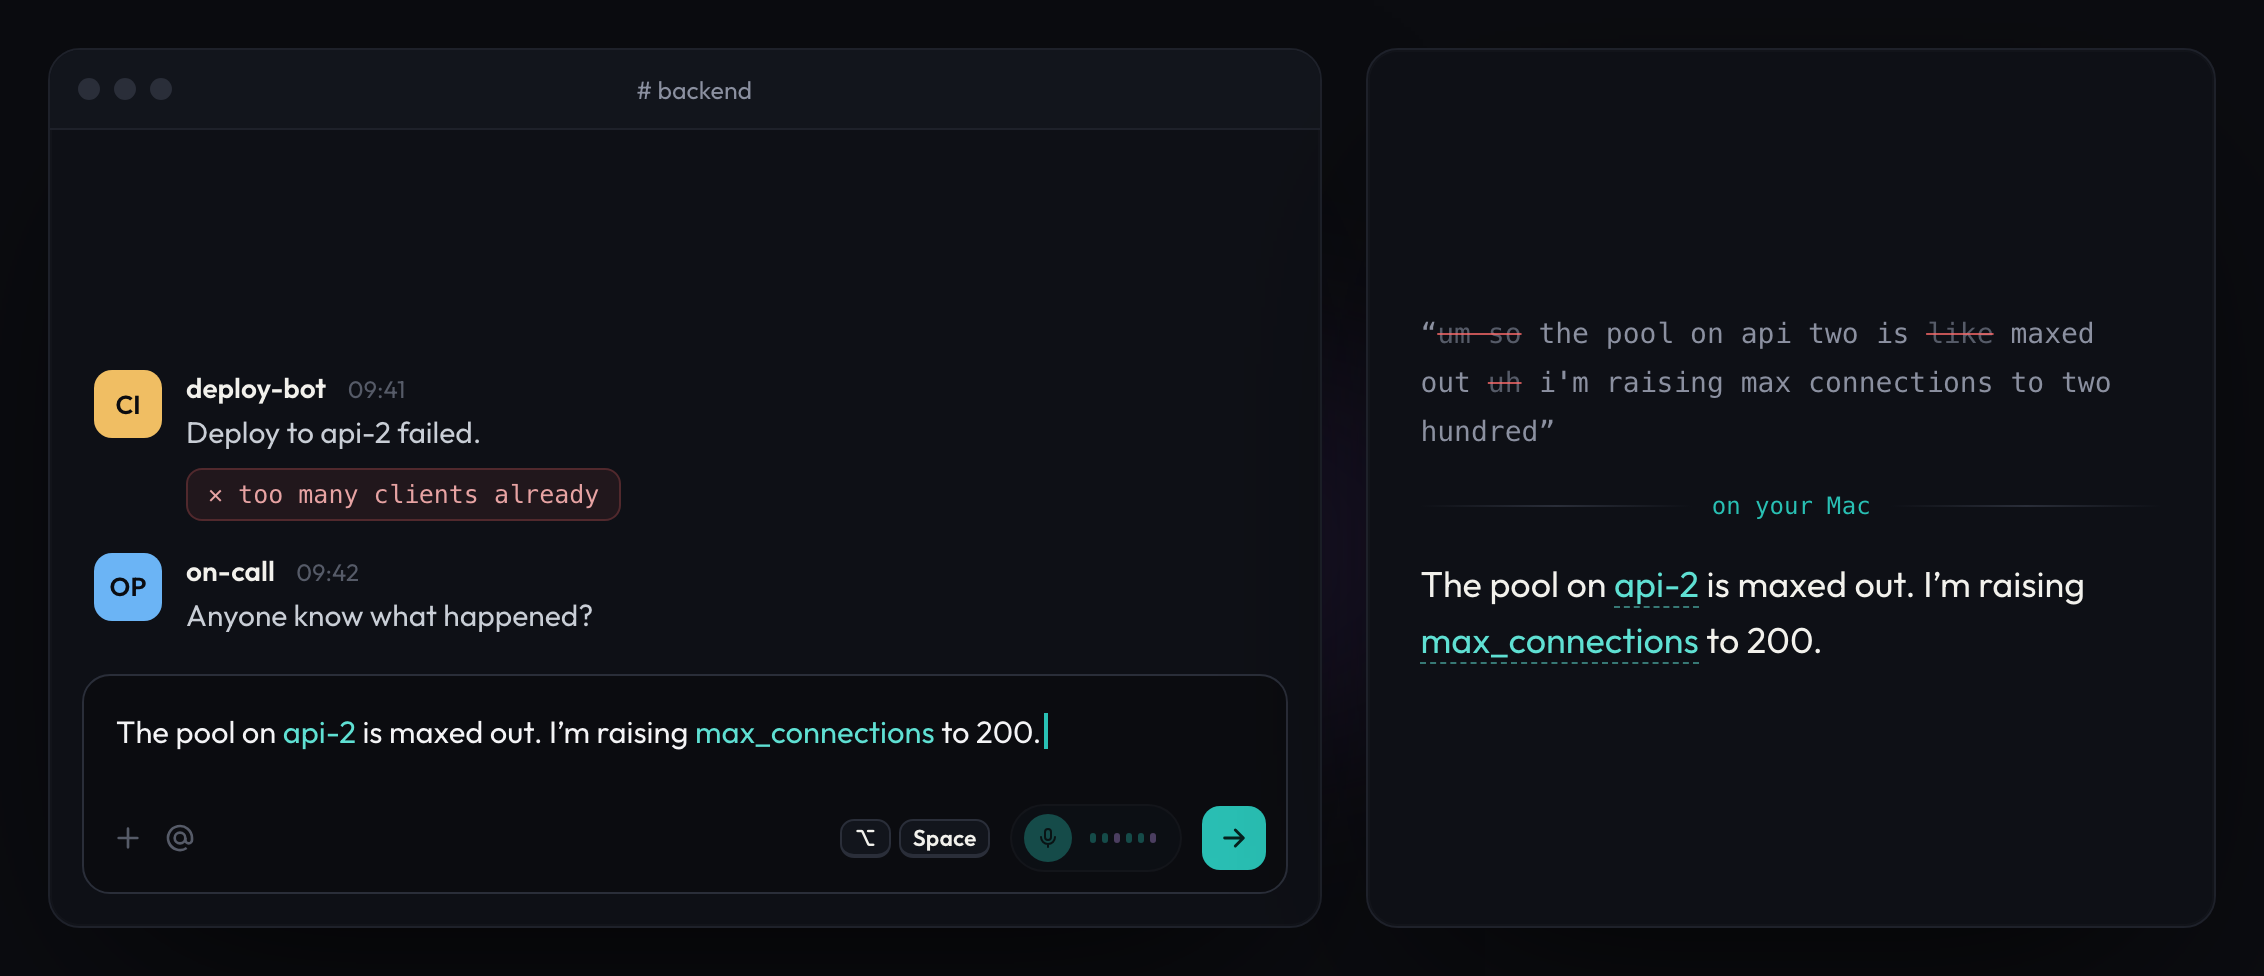
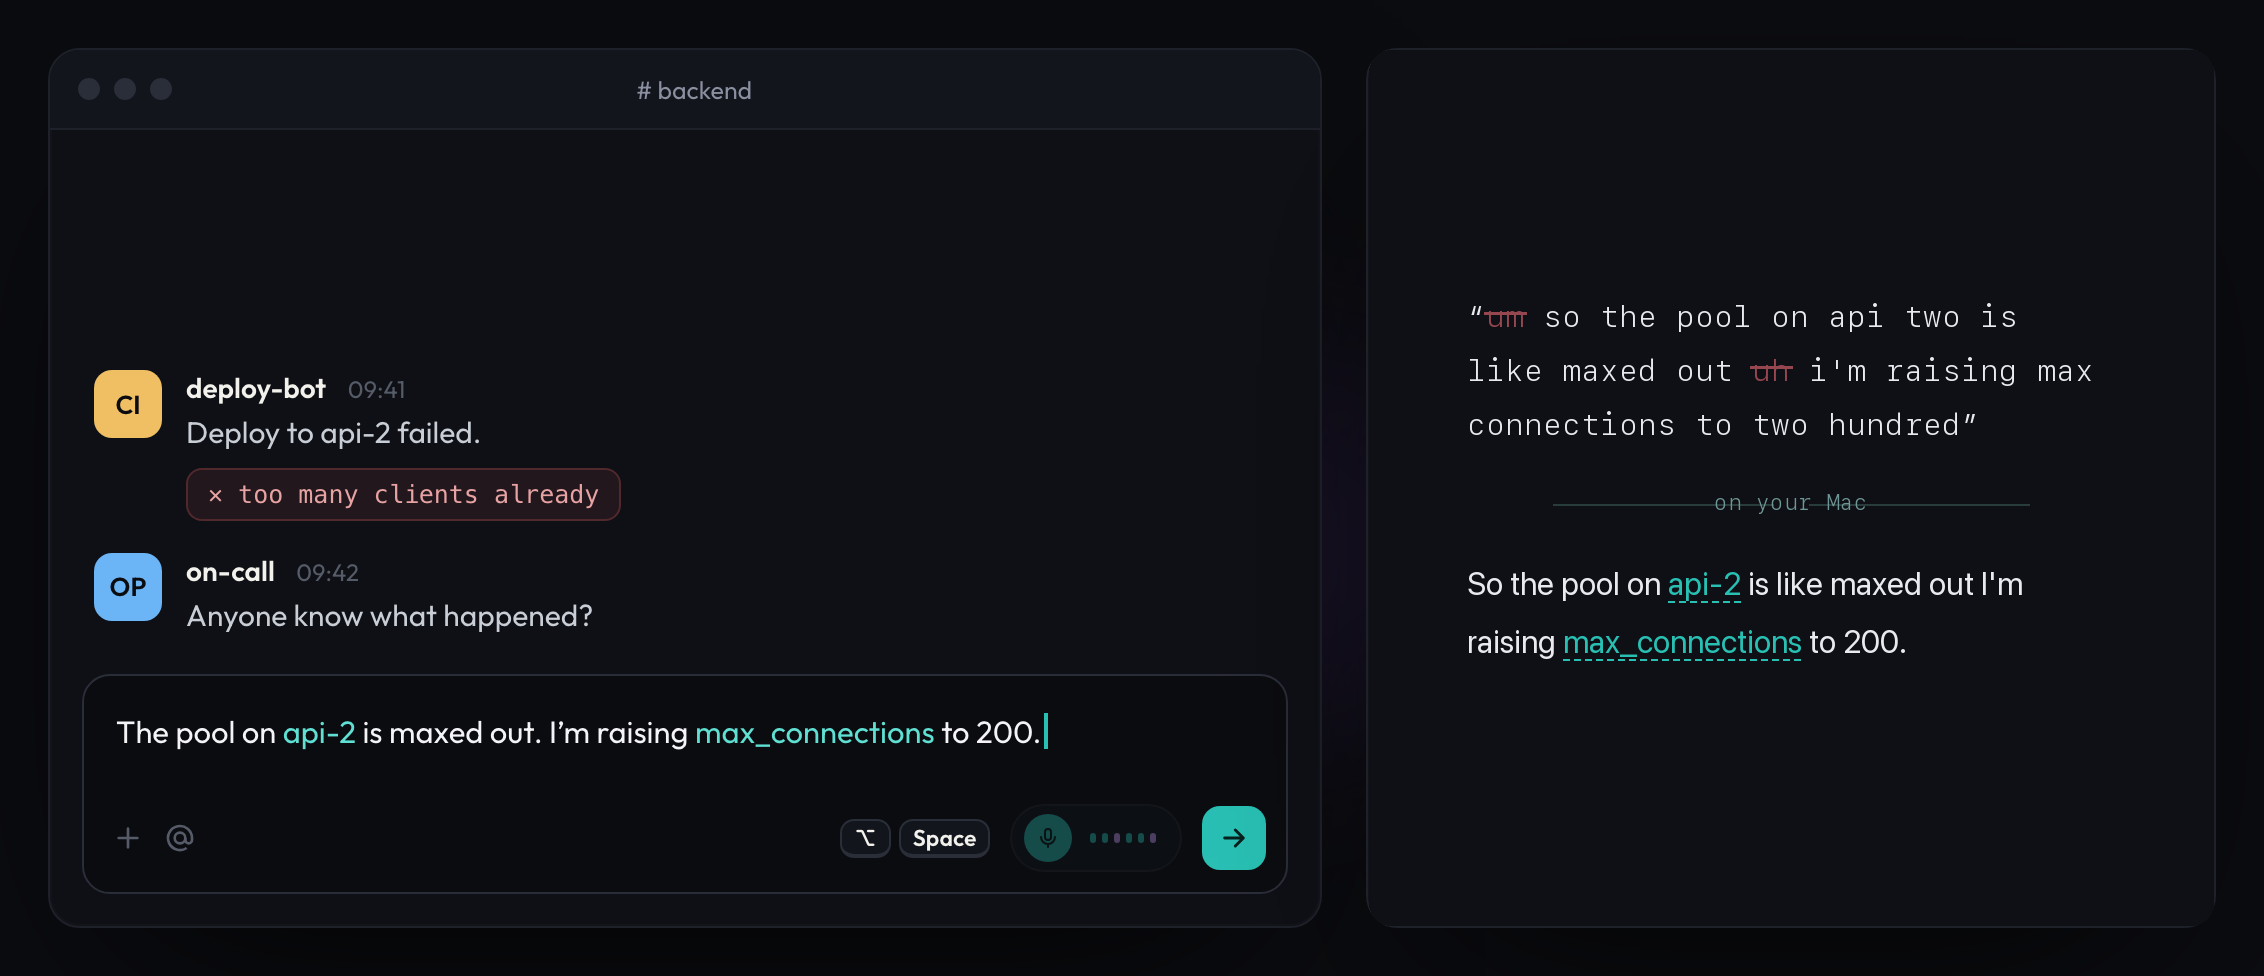
Fix README dictation image to match the shipped cleanup contract
Docs/media/readme-dictation.png struck out and omitted "so" and "like"
alongside the true fillers "um" and "uh", implying a more aggressive
rewrite than FillersPass performs. so and like are ordinary words that
survive cleanup (see FillersPassTests and Docs/cleanup.md). Redraws the
card's right panel so only um and uh are marked removed, and the
cleaned sentence keeps "so" and "like": "So the pool on api-2 is like
maxed out I'm raising max_connections to 200." Updates the README alt
text to match.

Fixes #1222

diff --git a/README.md b/README.md
@@ -31,7 +31,7 @@
 
 <p align="center">
   <img src="Docs/media/readme-dictation.png" width="820"
-       alt="A chat composer holding a dictated message, beside a card showing what was said, with the fillers struck out, and the cleaned sentence that landed.">
+       alt="A chat composer holding a dictated message, beside a card showing what was said, with um and uh struck out, and the cleaned sentence that landed.">
 </p>
 
 **Hold ⌥ Space** in any app and talk. Let go, and the words land at your cursor.
